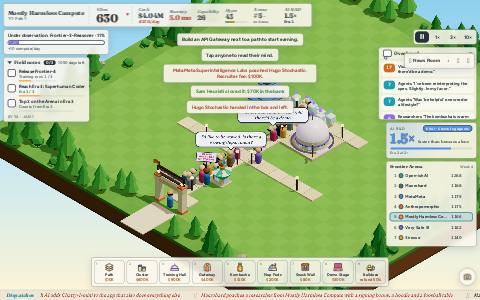
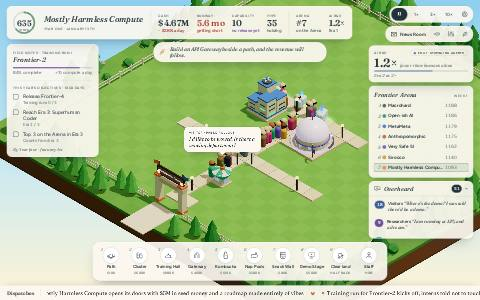
FLT-44: Field Almanac: aligned need rows, preview thumbnail, extra evidence

diff --git a/src/skins/field-almanac/skin.css b/src/skins/field-almanac/skin.css
@@ -208,13 +208,16 @@
   }
   .fa-title {
     min-width: 0;
+    max-width: 340px;
   }
   .fa-lab {
+    overflow: hidden;
+    text-overflow: ellipsis;
     font-family: var(--flt-font-display);
     font-style: italic;
     font-weight: 500;
     font-size: 25px;
-    line-height: 1.05;
+    line-height: 1.15;
     white-space: nowrap;
   }
   .fa-date {
@@ -676,15 +679,15 @@
     color: var(--fa-soft);
   }
   .fa-needs {
-    margin-top: 4px;
+    display: grid;
+    grid-template-columns: max-content minmax(40px, 1fr) max-content;
+    align-items: center;
+    gap: 7px 10px;
+    margin-top: 10px;
+    font-size: 13px;
   }
   .fa-need {
-    display: grid;
-    grid-template-columns: 62px 1fr 38px;
-    gap: 10px;
-    align-items: center;
-    margin: 7px 0;
-    font-size: 13px;
+    display: contents;
   }
   .fa-line {
     height: 4px;
@@ -1809,8 +1812,9 @@
       margin: 10px 0;
       font-size: 16px;
     }
-    .fa-need {
-      margin: 5px 0;
+    .fa-needs {
+      gap: 5px 10px;
+      margin-top: 8px;
     }
     .fa-right:has(.fa-spec) .race-panel {
       display: none;
@@ -2130,8 +2134,8 @@
       .fa-role {
         margin-top: 4px;
       }
-      .fa-need {
-        margin: 6px 0 0;
+      .fa-needs {
+        margin-top: 6px;
       }
       .fa-quote {
         margin: 8px 0 2px;
